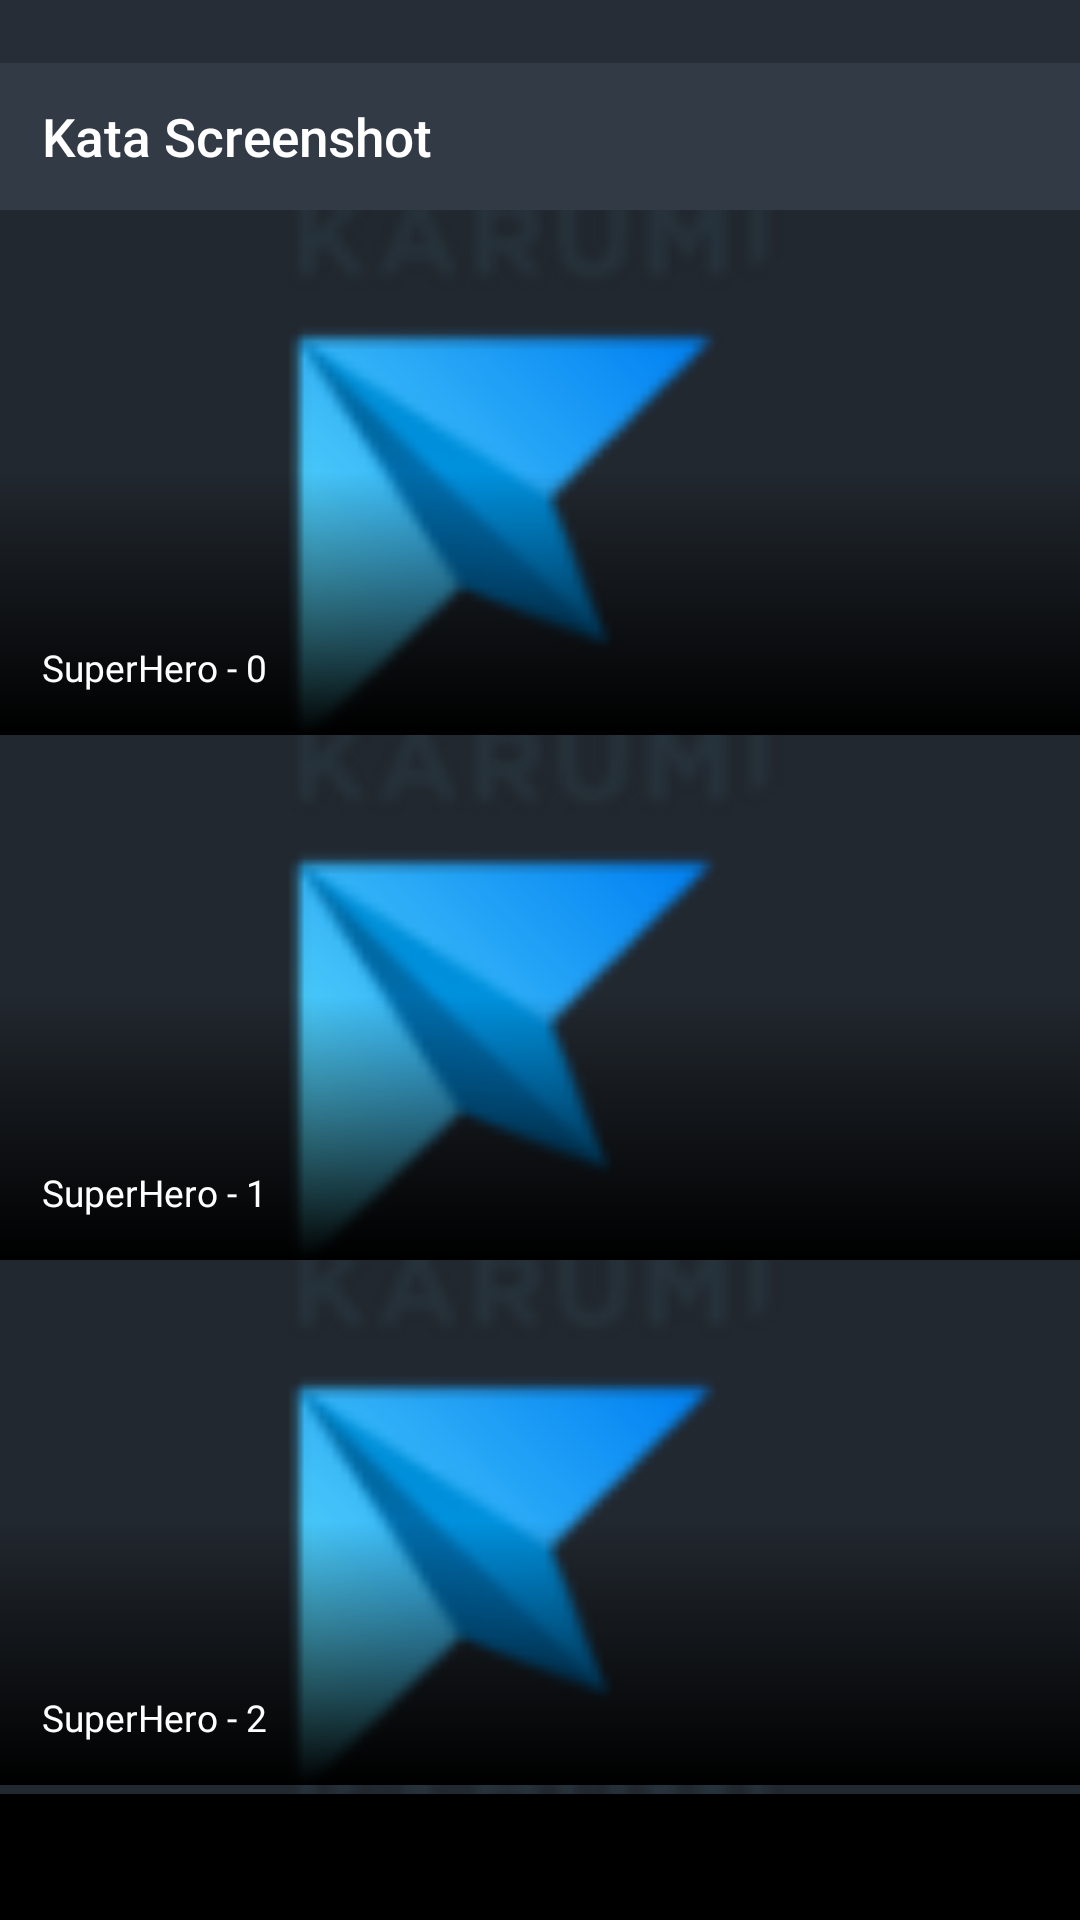
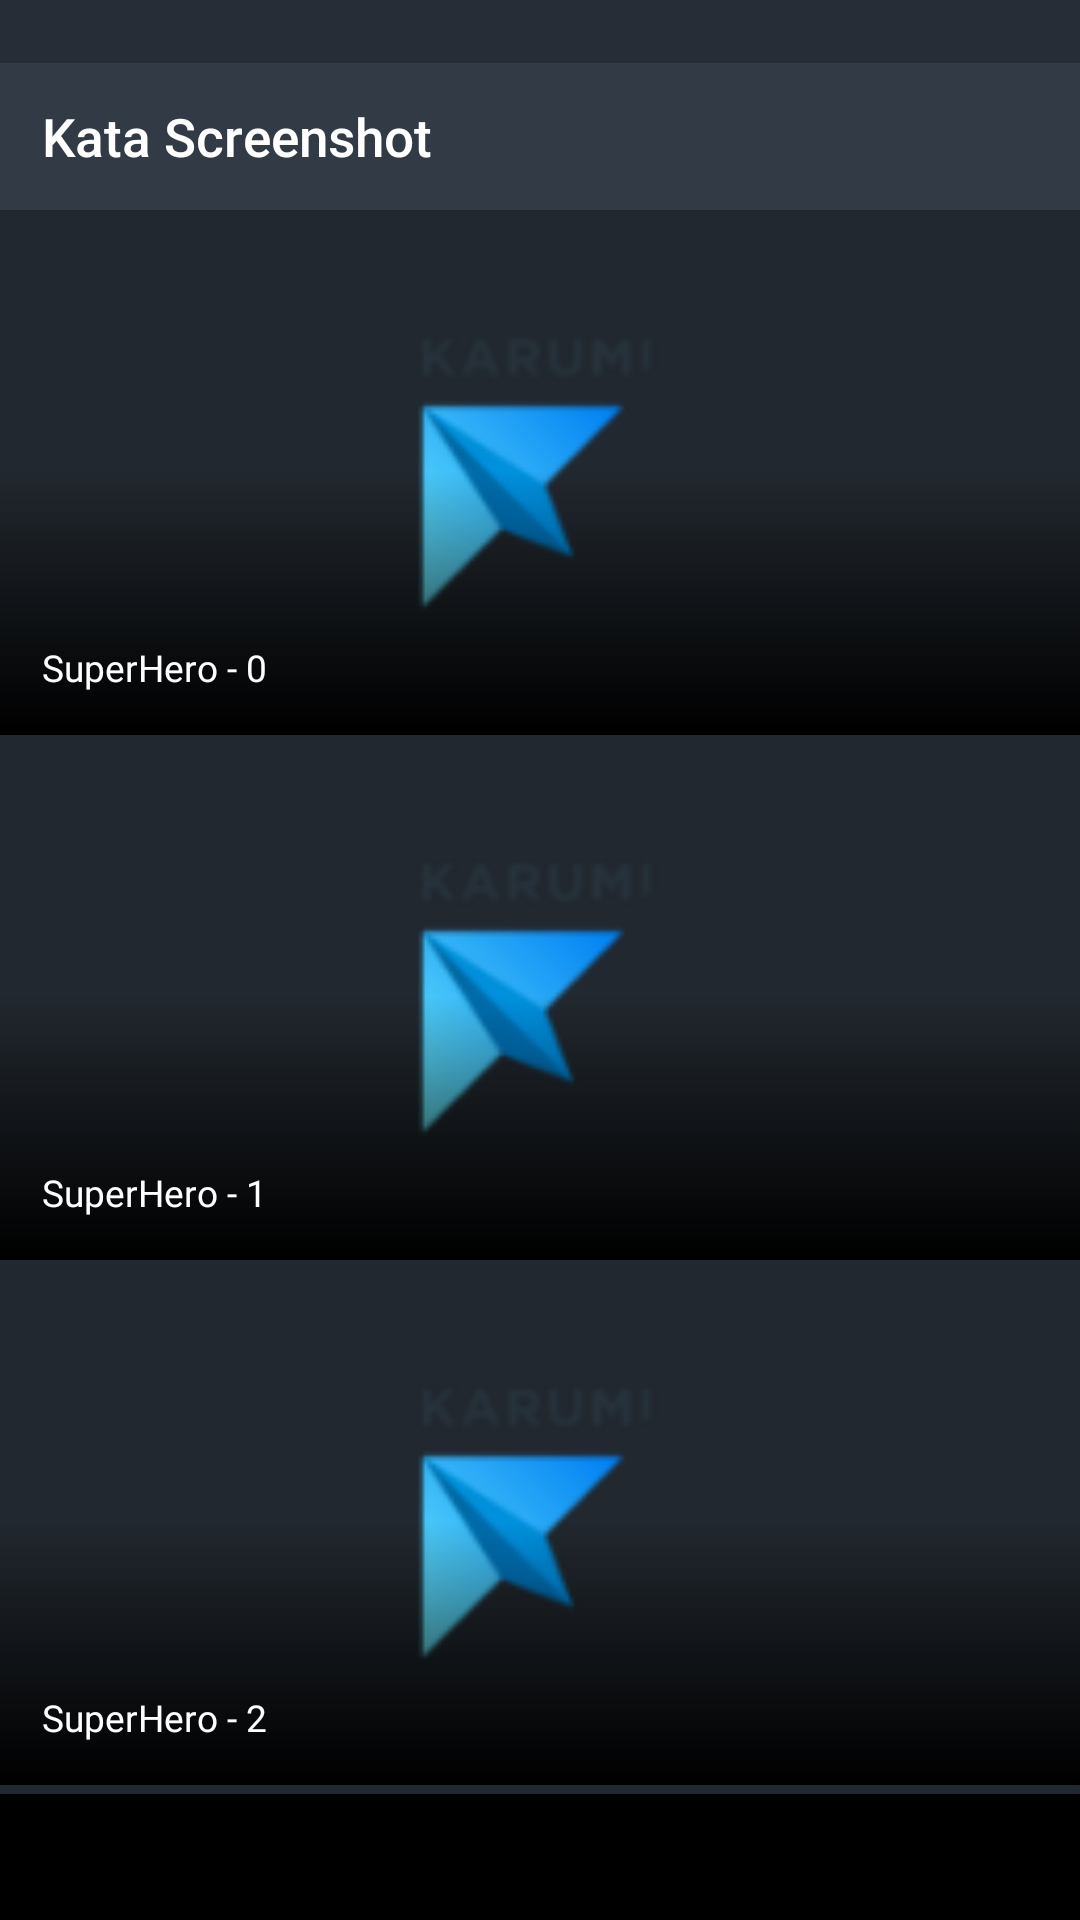
Creating and testing empty case and some fixes

Changed region(s): [[0.2444, 0.1562, 0.6722, 0.375], [0.2444, 0.4375, 0.6722, 0.6562], [0.2444, 0.7188, 0.6722, 0.9375]]

diff --git a/app/src/main/java/com/karumi/screenshot/ui/view/SuperHeroDetailActivity.java b/app/src/main/java/com/karumi/screenshot/ui/view/SuperHeroDetailActivity.java
@@ -19,78 +19,101 @@ package com.karumi.screenshot.ui.view;
 import android.content.Context;
 import android.content.Intent;
 import android.os.Bundle;
+import android.support.v4.content.ContextCompat;
 import android.view.View;
 import android.widget.ImageView;
+import android.widget.RelativeLayout;
 import android.widget.TextView;
+
 import com.karumi.screenshot.R;
 import com.karumi.screenshot.SuperHeroesApplication;
 import com.karumi.screenshot.model.SuperHero;
 import com.karumi.screenshot.ui.presenter.SuperHeroDetailPresenter;
 import com.squareup.picasso.Picasso;
+
 import javax.inject.Inject;
+
 import butterknife.Bind;
 
 public class SuperHeroDetailActivity extends BaseActivity implements SuperHeroDetailPresenter.View {
 
-  public static final String SUPER_HERO_NAME_KEY = "super_hero_name_key";
+    public static final String SUPER_HERO_NAME_KEY = "super_hero_name_key";
 
-  public static boolean isRunningUITest = false;
+    public static boolean isRunningUITest = false;
 
-  @Inject SuperHeroDetailPresenter presenter;
+    @Inject
+    SuperHeroDetailPresenter presenter;
 
-  @Bind(R.id.iv_super_hero_photo) ImageView superHeroPhotoImageView;
-  @Bind(R.id.tv_super_hero_name) TextView superHeroNameTextView;
-  @Bind(R.id.tv_super_hero_description) TextView superHeroDescriptionTextView;
-  @Bind(R.id.iv_avengers_badge) View avengersBadgeView;
+    @Bind(R.id.iv_super_hero_photo)
+    ImageView superHeroPhotoImageView;
+    @Bind(R.id.tv_super_hero_name)
+    TextView superHeroNameTextView;
+    @Bind(R.id.tv_super_hero_description)
+    TextView superHeroDescriptionTextView;
+    @Bind(R.id.iv_avengers_badge)
+    View avengersBadgeView;
+    @Bind(R.id.tv_empty_case)
+    TextView tvEmptyCase;
+    @Bind(R.id.recycler_view)
+    RelativeLayout mRecyclerView;
 
-  @Override protected void onCreate(Bundle savedInstanceState) {
-    super.onCreate(savedInstanceState);
-    initializeDagger();
-    initializePresenter();
-  }
-
-  @Override public int getLayoutId() {
-    return R.layout.super_hero_detail_activity;
-  }
-
-  @Override public void showSuperHero(SuperHero superHero) {
-    if (isRunningUITest) {
-      Picasso.with(this).load(R.mipmap.ic_launcher).fit().centerCrop().into(superHeroPhotoImageView);
-    } else {
-      Picasso.with(this).load(superHero.getPhoto()).fit().centerCrop().into(superHeroPhotoImageView);
+    @Override
+    protected void onCreate(Bundle savedInstanceState) {
+        super.onCreate(savedInstanceState);
+        initializeDagger();
+        initializePresenter();
     }
 
-    superHeroNameTextView.setText(superHero.getName());
-    superHeroDescriptionTextView.setText(superHero.getDescription());
-    int avengersBadgeVisibility = superHero.isAvenger() ? View.VISIBLE : View.GONE;
-    avengersBadgeView.setVisibility(avengersBadgeVisibility);
-  }
+    @Override
+    public int getLayoutId() {
+        return R.layout.super_hero_detail_activity;
+    }
 
-  public static void open(Context context, String superHeroName) {
-    Intent intent = new Intent(context, SuperHeroDetailActivity.class);
-    intent.putExtra(SUPER_HERO_NAME_KEY, superHeroName);
-    context.startActivity(intent);
-  }
+    @Override
+    public void showSuperHero(SuperHero superHero) {
+        if (isRunningUITest) {
+            superHeroPhotoImageView.setImageDrawable(ContextCompat.getDrawable(this, R.mipmap.ic_launcher));
+        } else {
+            Picasso.with(this).load(superHero.getPhoto()).fit().centerCrop().into(superHeroPhotoImageView);
+        }
 
-  @Override protected void initializeToolbar() {
-    super.initializeToolbar();
-    String superHeroName = getSuperHeroName();
-    setTitle(superHeroName);
-  }
+        superHeroNameTextView.setText(superHero.getName());
+        superHeroDescriptionTextView.setText(superHero.getDescription());
+        int avengersBadgeVisibility = superHero.isAvenger() ? View.VISIBLE : View.GONE;
+        avengersBadgeView.setVisibility(avengersBadgeVisibility);
+    }
 
-  private void initializeDagger() {
-    SuperHeroesApplication app = (SuperHeroesApplication) getApplication();
-    app.getMainComponent().inject(this);
-  }
+    @Override
+    public void showSuperHeroNotFound() {
+        tvEmptyCase.setVisibility(View.VISIBLE);
+    }
 
-  private void initializePresenter() {
-    presenter.setView(this);
-    String name = getSuperHeroName();
-    presenter.setName(name);
-    presenter.initialize();
-  }
+    public static void open(Context context, String superHeroName) {
+        Intent intent = new Intent(context, SuperHeroDetailActivity.class);
+        intent.putExtra(SUPER_HERO_NAME_KEY, superHeroName);
+        context.startActivity(intent);
+    }
 
-  private String getSuperHeroName() {
-    return getIntent().getExtras().getString(SUPER_HERO_NAME_KEY);
-  }
+    @Override
+    protected void initializeToolbar() {
+        super.initializeToolbar();
+        String superHeroName = getSuperHeroName();
+        setTitle(superHeroName);
+    }
+
+    private void initializeDagger() {
+        SuperHeroesApplication app = (SuperHeroesApplication) getApplication();
+        app.getMainComponent().inject(this);
+    }
+
+    private void initializePresenter() {
+        presenter.setView(this);
+        String name = getSuperHeroName();
+        presenter.setName(name);
+        presenter.initialize();
+    }
+
+    private String getSuperHeroName() {
+        return getIntent().getExtras().getString(SUPER_HERO_NAME_KEY);
+    }
 }

diff --git a/app/src/main/java/com/karumi/screenshot/ui/view/SuperHeroesAdapter.java b/app/src/main/java/com/karumi/screenshot/ui/view/SuperHeroesAdapter.java
@@ -16,13 +16,16 @@
 
 package com.karumi.screenshot.ui.view;
 
+import android.content.Context;
 import android.support.v7.widget.RecyclerView;
 import android.view.LayoutInflater;
 import android.view.View;
 import android.view.ViewGroup;
+
 import com.karumi.screenshot.R;
 import com.karumi.screenshot.model.SuperHero;
 import com.karumi.screenshot.ui.presenter.SuperHeroesPresenter;
+
 import java.util.ArrayList;
 import java.util.Collection;
 import java.util.List;
@@ -31,10 +34,12 @@ class SuperHeroesAdapter extends RecyclerView.Adapter<RecyclerView.ViewHolder> {
 
   private final SuperHeroesPresenter presenter;
   private final List<SuperHero> superHeroes;
+  private Context mContext;
 
-  public SuperHeroesAdapter(SuperHeroesPresenter presenter) {
+  public SuperHeroesAdapter(SuperHeroesPresenter presenter, Context context) {
     this.presenter = presenter;
     this.superHeroes = new ArrayList<>();
+    this.mContext = context;
   }
 
   void addAll(Collection<SuperHero> collection) {
@@ -50,7 +55,7 @@ class SuperHeroesAdapter extends RecyclerView.Adapter<RecyclerView.ViewHolder> {
   @Override public void onBindViewHolder(RecyclerView.ViewHolder holder, int position) {
     SuperHeroViewHolder superHeroViewHolder = (SuperHeroViewHolder) holder;
     SuperHero superHero = superHeroes.get(position);
-    superHeroViewHolder.render(superHero);
+    superHeroViewHolder.render(superHero, mContext);
   }
 
   @Override public int getItemCount() {

diff --git a/app/src/androidTest/java/com/karumi/screenshot/SuperHeroDetailActivityTest.java b/app/src/androidTest/java/com/karumi/screenshot/SuperHeroDetailActivityTest.java
@@ -161,8 +161,17 @@ public class SuperHeroDetailActivityTest extends ScreenshotTest {
     compareScreenshot(activity);
   }
 
+  @Test
+  public void showEmptyCaseForNotFoundSuperhero() {
+    SuperHero superHero = givenNoSuperhero();
+
+    Activity activity = startActivity(superHero);
+
+    compareScreenshot(activity);
+  }
+
   private SuperHero givenSuperHeroesWith(String name, String description, boolean avengers) {
-    SuperHero superHero = creteSuperHero(name, avengers, description);
+    SuperHero superHero = createSuperhero(name, avengers, description);
 
     when(repository.getByName(anyString())).thenReturn(superHero);
 
@@ -170,9 +179,17 @@ public class SuperHeroDetailActivityTest extends ScreenshotTest {
   }
 
   @NonNull
-  private SuperHero creteSuperHero(String name, boolean avengers, String description) {
+  private SuperHero createSuperhero(String name, boolean avengers, String description) {
     String superHeroDescription = description;
     return new SuperHero(name, "https://i.annihil.us/u/prod/marvel/i/mg/9/00/537bcb1133fd7.jpg", avengers, superHeroDescription);
+  }
+
+  private SuperHero givenNoSuperhero() {
+    SuperHero superHero = createSuperhero(REGULAR_NAME, false, DESCRIPTION);
+
+    when(repository.getByName(anyString())).thenReturn(null);
+
+    return superHero;
   }
 
   private SuperHeroDetailActivity startActivity(SuperHero superHero) {

diff --git a/app/src/main/java/com/karumi/screenshot/ui/view/SuperHeroViewHolder.java b/app/src/main/java/com/karumi/screenshot/ui/view/SuperHeroViewHolder.java
@@ -16,6 +16,7 @@
 package com.karumi.screenshot.ui.view;
 
 import android.content.Context;
+import android.support.v4.content.ContextCompat;
 import android.support.v7.widget.RecyclerView;
 import android.view.View;
 import android.widget.ImageView;
@@ -44,9 +45,9 @@ public class SuperHeroViewHolder extends RecyclerView.ViewHolder {
     ButterKnife.bind(this, itemView);
   }
 
-  public void render(SuperHero superHero) {
+  public void render(SuperHero superHero, Context context) {
     hookListeners(superHero);
-    renderSuperHeroPhoto(superHero.getPhoto());
+    renderSuperHeroPhoto(superHero.getPhoto(), context);
     renderSuperHeroName(superHero.getName());
     renderAvengersBadge(superHero.isAvenger());
   }
@@ -59,12 +60,12 @@ public class SuperHeroViewHolder extends RecyclerView.ViewHolder {
     });
   }
 
-  private void renderSuperHeroPhoto(String photo) {
+  private void renderSuperHeroPhoto(String photo, Context context) {
     if (photo == null) {
       return;
     }
     if (isRunningUITest) {
-      Picasso.with(getContext()).load(R.mipmap.ic_launcher).fit().centerCrop().into(photoImageView);
+      photoImageView.setImageDrawable(ContextCompat.getDrawable(context, R.mipmap.ic_launcher));
     } else {
       Picasso.with(getContext()).load(photo).fit().centerCrop().into(photoImageView);
     }

diff --git a/app/src/androidTest/java/com/karumi/screenshot/SuperHeroViewHolderTest.java b/app/src/androidTest/java/com/karumi/screenshot/SuperHeroViewHolderTest.java
@@ -16,16 +16,19 @@
 
 package com.karumi.screenshot;
 
+import static android.support.test.InstrumentationRegistry.getInstrumentation;
+
+import static org.mockito.Mockito.mock;
+
 import android.content.Context;
 import android.view.LayoutInflater;
 import android.view.View;
+
 import com.karumi.screenshot.model.SuperHero;
 import com.karumi.screenshot.ui.presenter.SuperHeroesPresenter;
 import com.karumi.screenshot.ui.view.SuperHeroViewHolder;
-import org.junit.Test;
 
-import static android.support.test.InstrumentationRegistry.getInstrumentation;
-import static org.mockito.Mockito.mock;
+import org.junit.Test;
 
 public class SuperHeroViewHolderTest extends ScreenshotTest {
 
@@ -33,7 +36,7 @@ public class SuperHeroViewHolderTest extends ScreenshotTest {
     SuperHero superHero = givenASuperHero();
     SuperHeroViewHolder holder = givenASuperHeroViewHolder();
 
-    holder.render(superHero);
+//    holder.render(superHero);
 
     compareScreenshot(holder, R.dimen.super_hero_row_height);
   }

diff --git a/app/src/main/java/com/karumi/screenshot/usecase/GetSuperHeroByName.java b/app/src/main/java/com/karumi/screenshot/usecase/GetSuperHeroByName.java
@@ -42,13 +42,17 @@ public class GetSuperHeroByName {
     final SuperHero superHero = repository.getByName(name);
     new Handler(Looper.getMainLooper()).post(new Runnable() {
       @Override public void run() {
-        callback.onSuperHeroLoaded(superHero);
+        if (superHero == null) {
+          callback.onSuperHeroNotFound();
+        } else {
+          callback.onSuperHeroLoaded(superHero);
+        }
       }
     });
   }
 
   public interface Callback {
-
     void onSuperHeroLoaded(SuperHero superHero);
+    void onSuperHeroNotFound();
   }
 }

diff --git a/app/src/main/java/com/karumi/screenshot/ui/presenter/SuperHeroDetailPresenter.java b/app/src/main/java/com/karumi/screenshot/ui/presenter/SuperHeroDetailPresenter.java
@@ -42,11 +42,18 @@ public class SuperHeroDetailPresenter extends Presenter<SuperHeroDetailPresenter
         view.hideLoading();
         view.showSuperHero(superHero);
       }
+
+      @Override
+      public void onSuperHeroNotFound() {
+        View view = getView();
+        view.hideLoading();
+        view.showSuperHeroNotFound();
+      }
     });
   }
 
   public interface View extends Presenter.View {
-
     void showSuperHero(SuperHero superHero);
+    void showSuperHeroNotFound();
   }
 }

diff --git a/app/src/main/java/com/karumi/screenshot/ui/view/MainActivity.java b/app/src/main/java/com/karumi/screenshot/ui/view/MainActivity.java
@@ -77,7 +77,7 @@ public class MainActivity extends BaseActivity implements SuperHeroesPresenter.V
   }
 
   private void initializeAdapter() {
-    adapter = new SuperHeroesAdapter(presenter);
+    adapter = new SuperHeroesAdapter(presenter, this);
   }
 
   private void initializeRecyclerView() {
